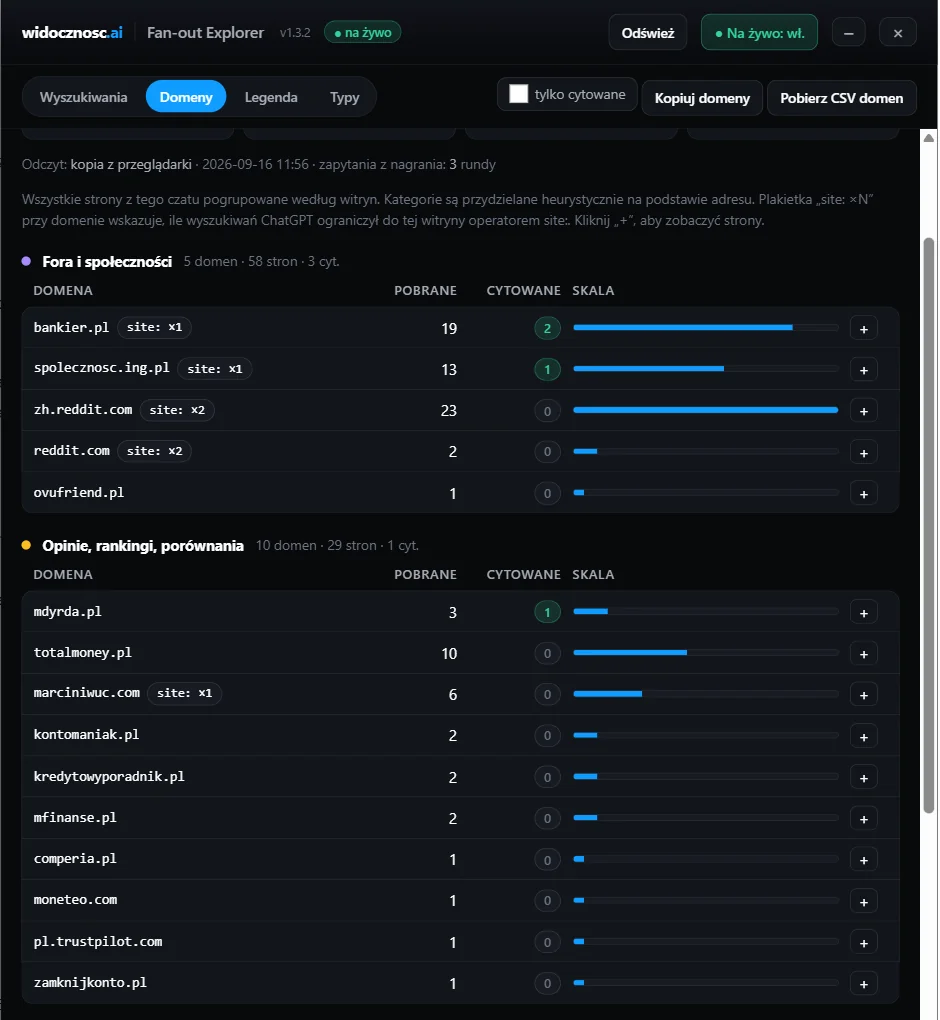
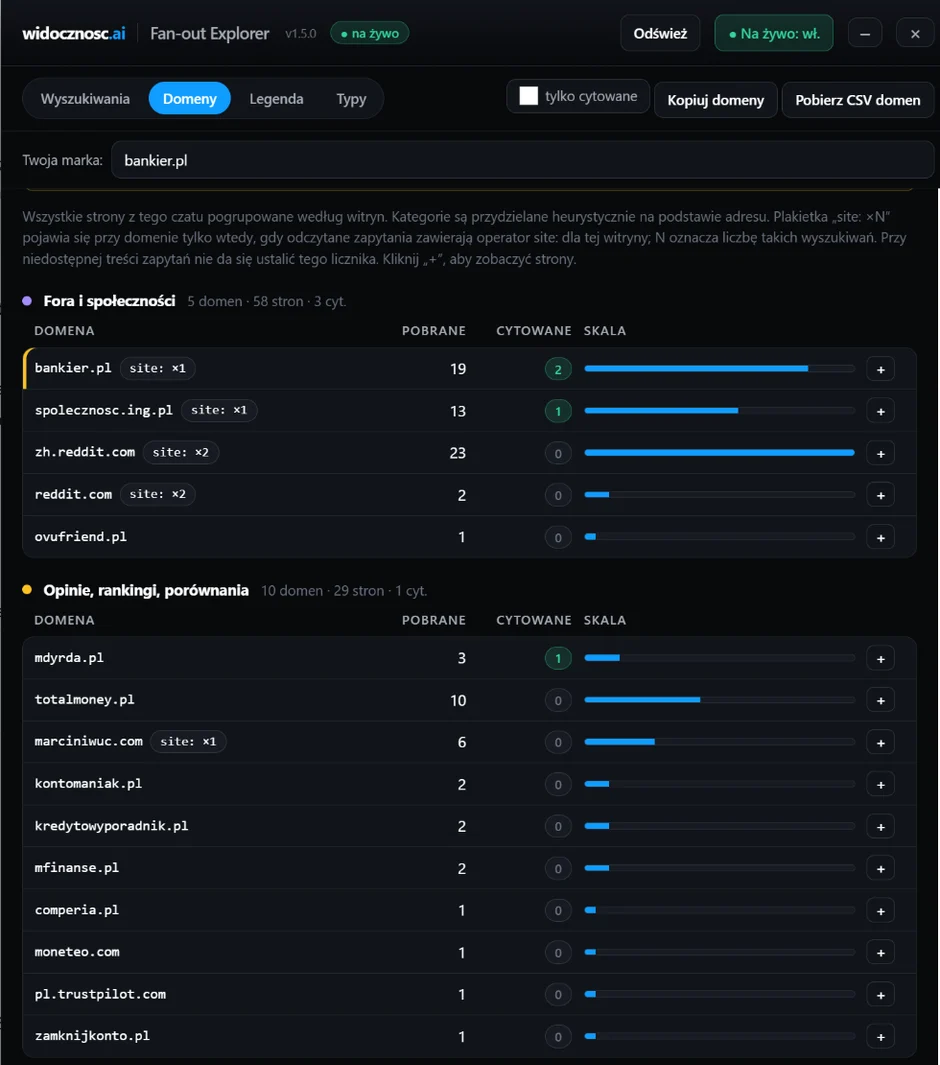
content(widocznosc): Fan-out Explorer – aktualne zrzuty panelu, zrzut pola „Twoja marka”, featureList i opis strony
Claude-Session: https://claude.ai/code/session_013SeKnfPCvNFCNvYVXmtceH

diff --git a/portals/widocznosc.ai/src/content/blog/geo/fanout-explorer-chatgpt.md b/portals/widocznosc.ai/src/content/blog/geo/fanout-explorer-chatgpt.md
@@ -118,6 +118,10 @@ Pod zakładkami panelu jest pole **„Twoja marka”**. Wpisz w nim domenę albo
 
 Pod spodem panel wypisuje zapytania, w których puli wyników znalazły się Twoje strony, oraz same adresy, a w tabeli i zakładce Domeny podświetla wiersze marki. Dwie uwagi. ChatGPT zapisuje wyniki dla całej rundy, więc przy kilku zapytaniach w jednej rundzie nie da się wskazać, które z nich zwróciło Twoją stronę. Nazwa jest szukana w adresie, tytule strony i tekście odpowiedzi, dlatego krótkie, popularne słowa mogą dać fałszywe trafienia – domena jest pewniejsza. Wpis zostaje zapamiętany w przeglądarce, więc przy kolejnych czatach wystarczy otworzyć panel.
 
+![Ramka „Twoja marka w tej rozmowie” w panelu Fan-out Explorer dla domeny bankier.pl na czacie o kredycie hipotecznym: 19 stron w wynikach, 2 cytowane, marka wymieniona w odpowiedzi, lista zapytań z puli wyników i adresy z zaznaczonymi cytowaniami](../../../assets/images/blog-geo-fanout-explorer-marka.webp)
+
+<span class="img-caption">Pole „Twoja marka” z domeną bankier.pl: zacytowane strony są na górze listy, wiersze marki podświetlone w tabeli.</span>
+
 ## Jak zainstalować i kiedy kliknąć
 
 Instalacja polega na przeciągnięciu przycisku ze strony narzędzia [Fan-out Explorer](/narzedzia/fanout-explorer/) na pasek zakładek. W systemie Windows długie kody zakładek nie zawsze działają poprawnie po przeciągnięciu, dlatego dostępna jest też metoda polegająca na ręcznym skopiowaniu kodu do pola adresu zakładki. Jeśli zakładki są zablokowane, ale masz dostęp do narzędzi deweloperskich, możesz uruchomić kod przez konsolę.
